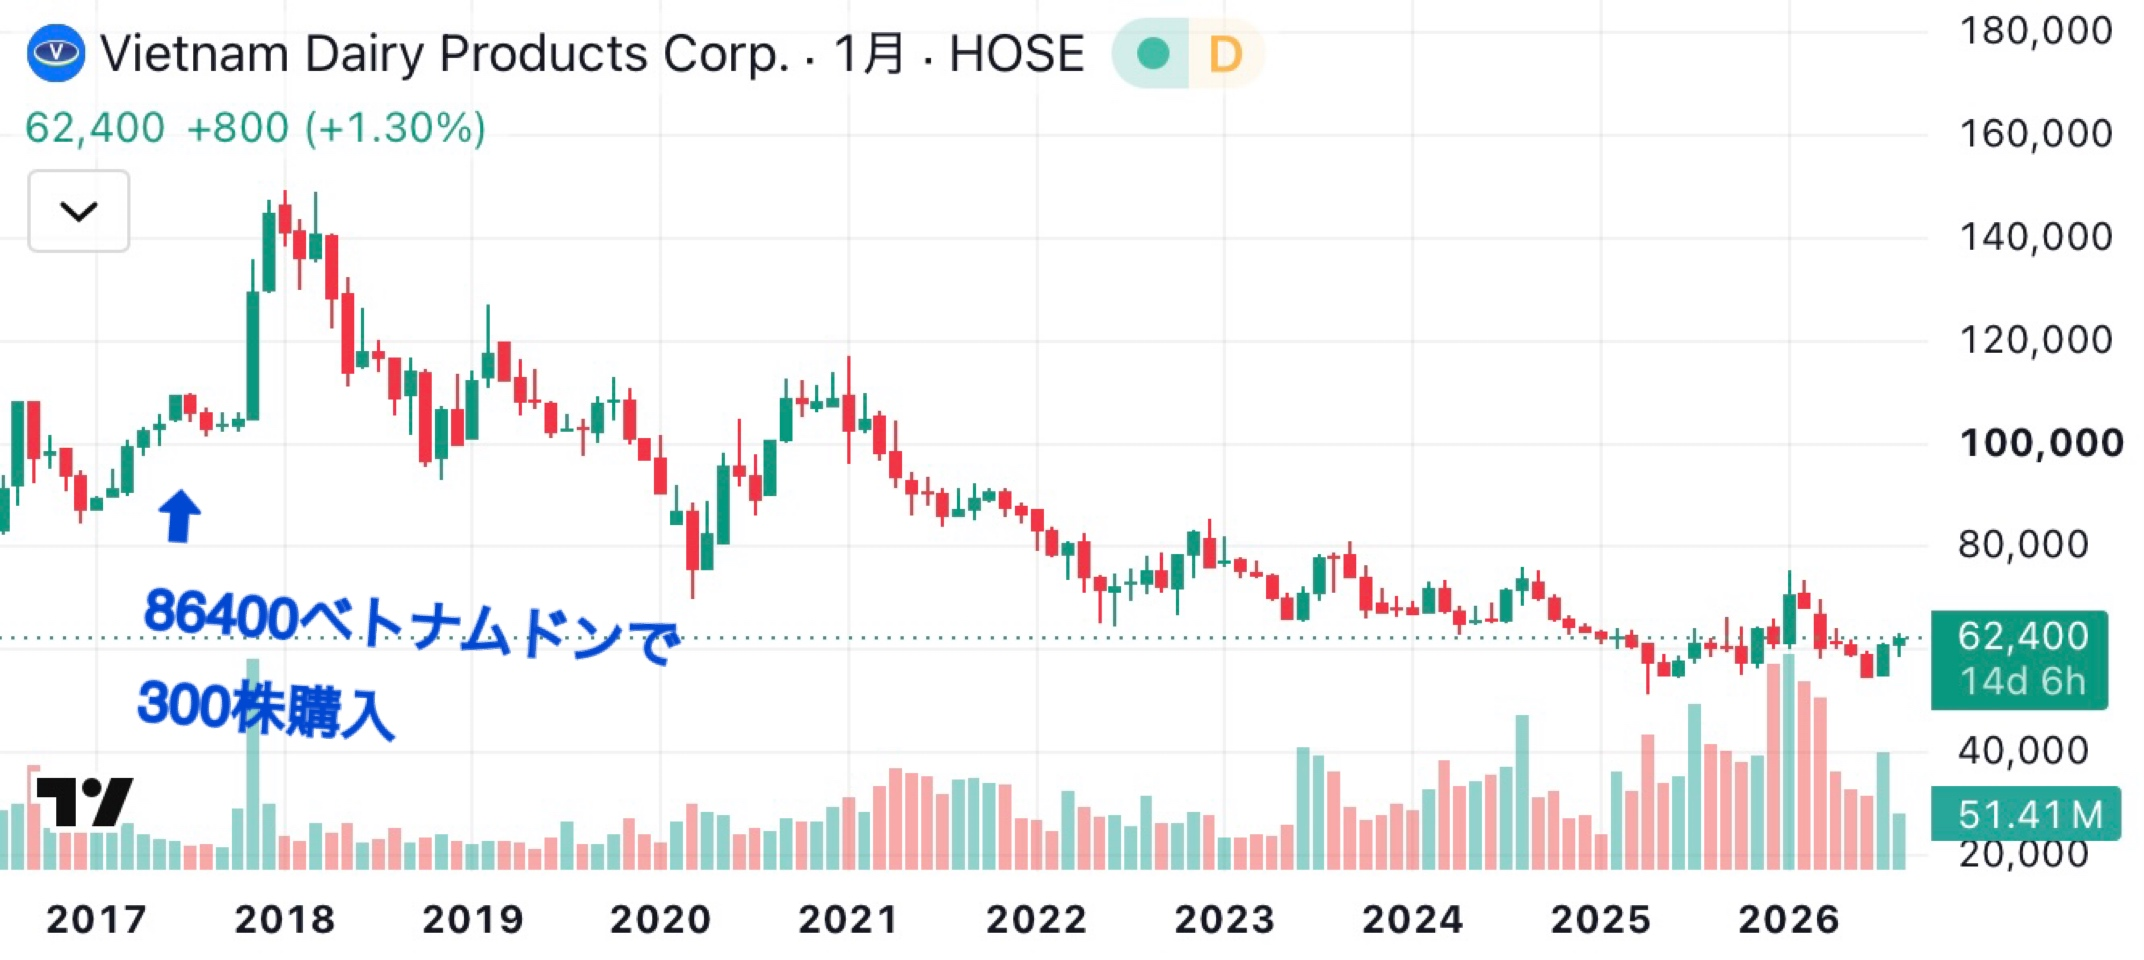
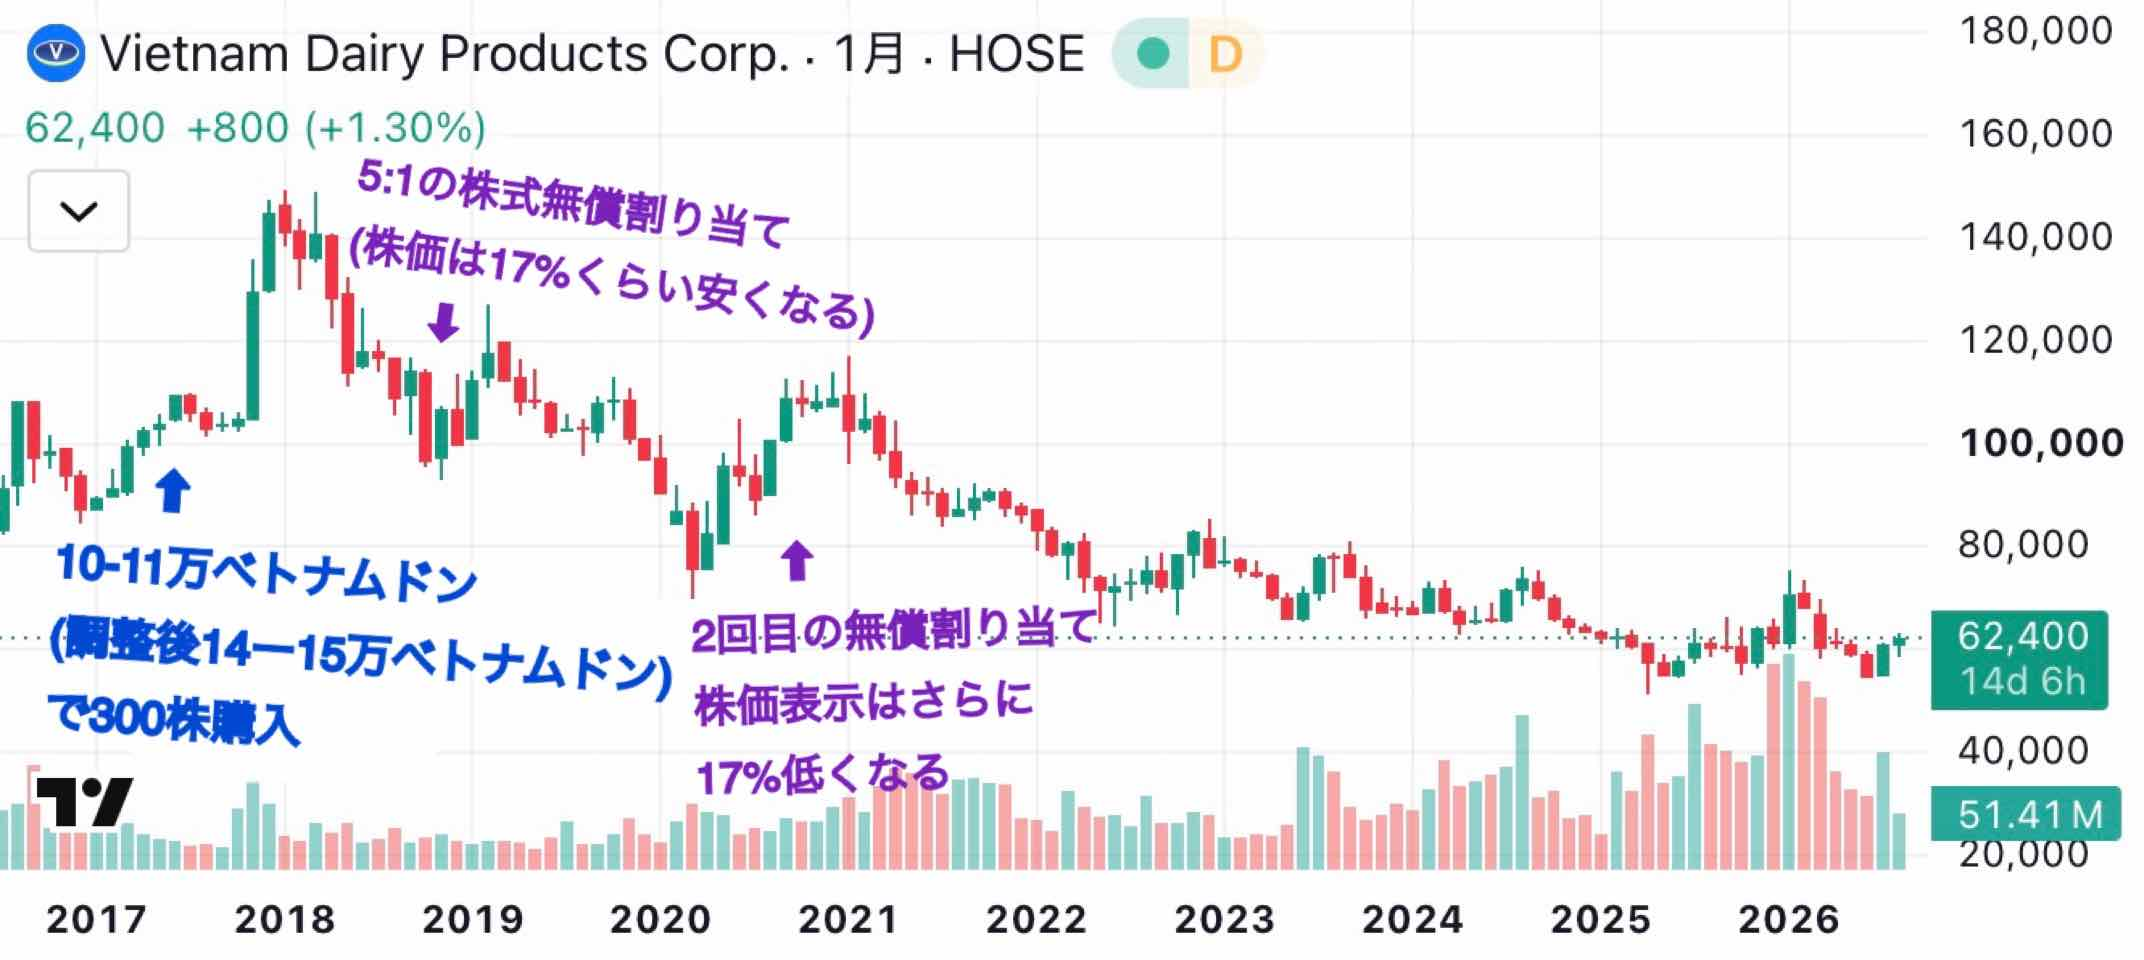
ブログ記事を追加

diff --git a/_posts/2026-08-15-kabu.md b/_posts/2026-08-15-kabu.md
@@ -7,22 +7,25 @@ tags:
 ---
 
 持株4つ目はビナミルク！これもベトナム株💦笑<br>
-ベトナム株3社持ってるんだけどたぶんどれも2017年11月ごろに買ってると思う。
-<br>
+ベトナム株3社持ってるんだけどたぶんどれも2017年10月ごろに買ってると思う。
+<br><br><br>
 月足チャート↓
 <br>
 ![月足チャート](/images/2026-08-15-chart.jpeg "月足チャート")
-<br>
-300株を176000円程で購入して現在62400ベトナムドンなので含み損が27000円くらい💦
 <br><br>
-ビナミルクの毎年の配当は3500ベトナムドン/株(日本円で20円/株)くらいなので300株で8年持ってたら50000円くらいか、、手数料考えたらあんまり変わらないかな💦
+2017年10月半ばに300株をおそらく150000ベトナムドンくらいで、日本円にして226000円程(当時のレート10000ベトナムドン＝50円で計算)で購入。
 <br><br>
-ちなみにビナミルクは、5株につき1株無料であげますよ〜という無償割り当てっていうものを私が買った2017年以降過去に2回実施してるので、私の保有株数は<br>
+ビナミルクは、5株につき1株無料であげますよ〜という無償割り当てっていうものを私が買った2017年以降過去に2回(2018年と2020年の9月)実施してるので、私の保有株数は<br>
 300株→360株<br>
 360株→400株(432株)になった。<br>
-⚠2021年以降単元株が10株から100株に変更したため端数の32株は売却されたらしい
+⚠2021年以降単元株が10株から100株に変更したため端数の32株は売却されていた
 <br><br>
-ベトナムでは無償割り当てっていう株無料配布がけっこういろんな会社で行われているらしい。<br>
-面白いよね！！
+チャート上の価格は10万ベトナムドンだけどこれは株式無償割り当て分を調整したあとの価格が表示されてるので実際は2017年10月ごろの価格に1.44倍した価格で私は購入している。
 <br><br>
+そして現在400株所有で株価が62400ベトナムドンになってしまったので約10万円の含み損💦
 <br><br>
+ビナミルクの毎年の配当は3500ベトナムドン/株(日本円で20円/株)くらいなので300-400株で8年持ってたら50000円くらいか、、それを込みでもまだ5万円の含み損だわ、、
+<br><br>
+今後どうするかこれもゆっくり考えます。。
+<br><br>
+ベトナムでは無償割り当てっていう分割じゃなく、持株数に応じて株を配るというのが頻繁に行われるんだって！国によって色々違って面白いね〜

diff --git a/_posts/2026-08-26-kabu.md b/_posts/2026-08-26-kabu.md
@@ -1,0 +1,31 @@
+---
+layout: post
+title: "旧NISAとはなんなのか"
+date: 2026-08-26
+tags:
+ - 株
+---
+
+NISAで株買っておきながら何なのか理解してないので自分で後で見返した時にわかるようにここに書いておこうとおもいますd(￣ ￣)笑
+<br><br>
+てことでいきなり一気に調べると訳わかんなくなりそうだから今日は旧NISAだけ！！
+<br><br>
+<br>旧NISAとは、、、<br>
+![旧NISAまとめ](/images/2026-08-26-table.jpeg "旧NISAまとめ")<br>
+<br><br>
+非課税期間は5年間とあるけど、厳密には始めた月によって変わる。
+私は2017年10月に旧NISAを始めたけど、5年の数え方は、2017年が1、2018年が2、2019年が3、2020年が4、2021年が5になって2021年の12月31日をもって2017年に購入した分のNISA口座は終了して、2022年の1月1日から通常口座に戻るって扱いみたい。なのでこの私の例だと4年と2ヶ月だけ非課税だったみたい。最大限非課税枠利用したいなら1月にNISA枠で買うのが一番お得だったね〜
+<br><br>
+次はデメリット調べてみた。。
+<br><br>
+旧NISAのデメリットは？？<br>
+![旧NISAデメリット](/images/2026-08-26-table2.jpeg "旧NISAデメリット")
+<br><br>
+わたし、、この中のお化け増税ってやつもろ食らってて笑う、、、泣
+コロプラの株価が1200円で200株買って、なのに5年後の通常口座戻る時に600円に下がってしまったのでそれが今後の税金の基準だから、仮に1200円に戻ったから売ろうってなっても600円✖200株✖20％の24000円が税金で取られてしまう💦
+てことはそれも含めた以上に値上がりしないと売れないじゃん（ ; ; ）
+<br><br>
+ちゃんとしっかり調べてからいろいろやらないとだめだね、、
+これからはちゃんとしっかりやっていきたい！！
+<br><br>
+次は新NISAについて調べようと思います。

diff --git a/README.md b/README.md
@@ -1,7 +1,7 @@
 # nono-non.github.io
 ブログサイト運営の練習場
 
-           Jekyll
+           Jekyll(全体の呼称)
     ┌────┼────┐
     ↓        ↓        ↓
 Markdown   Liquid   Front Matter
@@ -13,6 +13,15 @@ Markdown   Liquid   Front Matter
               ↓
         ブラウザで表示
 
+Liquid プログラムを埋め込む時に使う
+①オブジェクト（出力）
+二重の波括弧 {{ }} を使って、変数やデータの値を画面に出力します。例：{{ page.title }}（ページのタイトルを表示）
+②タグ（ロジック・制御）
+パーセント記号と波括弧 {% %} を使って、条件分岐（if）や繰り返し（for）などの処理を実行します。
+例：{% if site.posts %} や {% for post in site.posts %}
+③フィルタ（加工）
+パイプ記号 | を使って、出力するデータの見た目を変更・加工します。
+
 メモ書き
 ⭐記事にあるlayout: postは_layoutsフォルダの中のpost.htmlを使うよという意味
 例）2026-7-30test.mdの記事にlayout: postとあるのでpost.htmlを使って記事を作成しようとする、そのpost.htmlの中にpage.titleが出てくるがこのpageは現在処理している記事(2026-7-30test.mdのこと)なのでそのfrontmatterのtitleを使って記事を作成するということつまりpageとpostは別物と考える
@@ -22,7 +31,7 @@ Markdown   Liquid   Front Matter
 ⭐{{ post.date | date: "%Y-%m-%d" }}
 左側→どのデータを使うか、右側→フォーマットを指定
 ⭐このpost.dateのpostはfor post in site.postsで自分でpostと名前をつけたからついている
-date、titleなどは記事上部の（front matterという）以下の部分から取っている。
+⭐date、titleなどは記事上部の（front matterという）以下の部分から取っている。
 ーーーー
 layout
 title

diff --git a/_posts/2026-08-18-kabu.md b/_posts/2026-08-18-kabu.md
@@ -1,0 +1,33 @@
+---
+layout: post
+title: "持ってる株⑤ ホーチミンインフラ投資"
+date: 2026-08-18
+tags:
+ - kabu
+---
+
+ベトナム株は3つ持っててその最後がホーチミンインフラ投資という会社！<br><br>
+これも2017年10月ごろに、1株30000ベトナムドン(のちに無償割り当てあるため調整株価34500ベトナムドンくらい)で1500株（10000ベトナムドン＝50円として約25万円）購入。
+<br><br><br>
+月足チャート↓<br>
+![月足チャート](/images/2026-08-18-chart.jpeg "月足チャート")
+<br><br>
+この株もビナミルクみたいに2025年8月に無償割り当てを一回やっていて、100株につき14株無償で渡されたので、1710株になり、端数の10株はこの時点で売却されている。
+<br><br>
+現在の価格が13900ベトナムドンで株数が1700株に増えたからといってもまだ含み損は10万円ほど💦
+<br><br>
+そして、ここは毎年配当があるわけじゃなく配当が不定期だったっぽい^^;
+<br><br>
+主な現金配当の履歴は、
+2020年10月：1株あたり 約877 VND
+2021年4月：1株あたり 約1,228 VND
+2023年10月：1株あたり 約350 VND
+2024年6月・3月：1株あたり 約350 VND
+2024年12月：1株あたり 約263〜438 VND
+2025年9月：1株あたり 500 VND
+でレートを55円と計算すると、保有してた期間で配当合計約34000円なのでそれを差し引いても7万の含み損💦
+<br><br>
+このまま持ってるべきかどうするかは今後このブログに書きつつ勉強していって決めようと思います、、、
+<br><br>
+ほんと適当に買うといいことないね、こんなんなら日経平均連動ETFとかに全投資しておけばよかったなあ〜〜笑
+<br><br>

diff --git a/_posts/2026-08-22-kabu.md b/_posts/2026-08-22-kabu.md
@@ -8,14 +8,14 @@ tags:
 
 今現在持っている最後の株がアメリカのヴィーバシステムズというアメリカの株！
 <br><br>
-2022年8月に1ドル135円のレートでドルを購入してそのお金でこの株を買いました。<br><br>
+2022年8月19日に1ドル135円のレートでドルを購入してそのお金でこの株を1株225アメリカドルで買いました。<br><br>
 アメリカ株は1株から買えるので適当に1株だけ買って放置して現在に至る......
+<br><br>
 <br>月足チャート↓<br>
 ![月足チャート](/images/2026-08-22-chart.jpeg "月足チャート")<br>
-これ一応含み益少し出てるから売ろうかな💦適当に買っただけだし、、
+今日の時点で247ドルになっていて、一応含み益少し出てるから売ろうかな💦適当に買っただけだし、、
+<br>これからちゃんと株と向き合ってどうして行こうか考えていこうとおもいます。
 <br><br>
-これからちゃんと株と向き合ってどうして行こうか考えていきたいとおもってる。
-<br><br>
-これで今持ってる株の現実に向き合うことができたから次からは一個ずつもっと細かく見ていこうと思います。d(￣ ￣)
+これで今持ってる株の現実に向き合うことができたから次からは一個ずつもっと細かく見ていこうと思います。d(￣ ￣)いや、その前にNISAについて調べてまとめるか💦
 <br><br>
 <br><br>

diff --git a/_posts/2026-08-08-kabu.md b/_posts/2026-08-08-kabu.md
@@ -13,13 +13,13 @@ tags:
 2017年10月18日に852円で100株(85200円分)購入〜。
 ちなみにこの時はまだ上場廃止してないのでランドコンピュータという名前で購入。
 <br>
-その時の月足チャート↓
+その時の月足チャート↓<br><br>
 <br>
 ![月足チャート](/images/2026-08-08-chart1.jpeg "月足チャート")
 <br><br>
 2021年9月29日、1株につき1.5株の株式分割された。所持株は150株になる
 <br><br>
-分割後のチャート↓
+分割後のチャート↓<br><br>
 <br>
 ![分割後チャート](/images/2026-08-08-chart2.jpeg "分割後チャート")
 <br>
@@ -27,14 +27,14 @@ tags:
 <br><br>
 2023年10月30日、1株につき2株に分割される。所持株数が100株に
 <br><br>
-再分割後のチャート↓
+再分割後のチャート↓<br><br>
 <br>
 ![再分割後のチャート](/images/2026-08-08-chart3.jpeg "再分割後のチャート")
 <br>
 2026年3月30日に上場廃止。
 2026年4月1日からはランドコンピュータ株式1株につき、親会社トランヴィア株式1株として割り当てられたので現在はトランヴィアの株を100株持っている状態。
 <br><br>
-トランヴィアに移行後のチャート↓
+トランヴィアに移行後のチャート↓<br><br>
 <br>
 ![トランヴィアに移行後のチャート](/images/2026-08-08-chart4.jpeg "トランヴィアに移行後のチャート")
 <br><br>

diff --git a/_posts/2026-08-14-kabu.md b/_posts/2026-08-14-kabu.md
@@ -8,15 +8,15 @@ tags:
 
 持ってる&放置してる株3つ目はベトナムのハウザン製薬です。これは大正製薬が株式の51%を持っているので大正製薬の子会社ですね、、
 <br><br>
-私が使ってるのがSBI証券で、取引履歴が過去5年までしか見れなくて（それより古いのは有償取り寄せ）、なので大体の購入日しか分からないのが悲しい所、おそらく2017年11月ごろに買ってます。<br><br>
+私が使ってるのがSBI証券で、取引履歴が過去5年までしか見れなくて（それより古いのは有償取り寄せ）、なので大体の購入日しか分からないのが悲しい所、おそらく2017年10月ごろに買ってます。<br><br>
 ベトナムの株なのでまずは日本円をベトナムドンに両替しないと買えないのでベトナムドンを購入<br>
-その時のベトナムドン/円の月足チャート↓
+その時のベトナムドン/円の月足チャート↓<br><br>
 <br>
 ![月足チャート](/images/2026-08-14-chart1.jpeg "月足チャート")
 <br><br>
 でさらにハウザン製薬の株を1株118380ベトナムドンで400株購入（円換算241600円分💦）
 <br>
-ハウザン製薬の月足チャート↓
+ハウザン製薬の月足チャート↓<br><br>
 <br>
 ![月足チャート](/images/2026-08-14-chart2.jpeg "月足チャート")
 <br>

diff --git a/_posts/2026-08-06-kabu.md b/_posts/2026-08-06-kabu.md
@@ -11,7 +11,7 @@ tags:
 <br><br>
 ずっと放置していて含み損すごすぎて向き合ってなかったけど、今日こそちゃんと向き合います。
 <br><br>
-月足チャート↓
+月足チャート↓<br><br>
 <br>
 ![コロプラの月足チャート](/images/2026-08-06-chart.jpeg "コロプラの月足チャート")
 <br><br>
